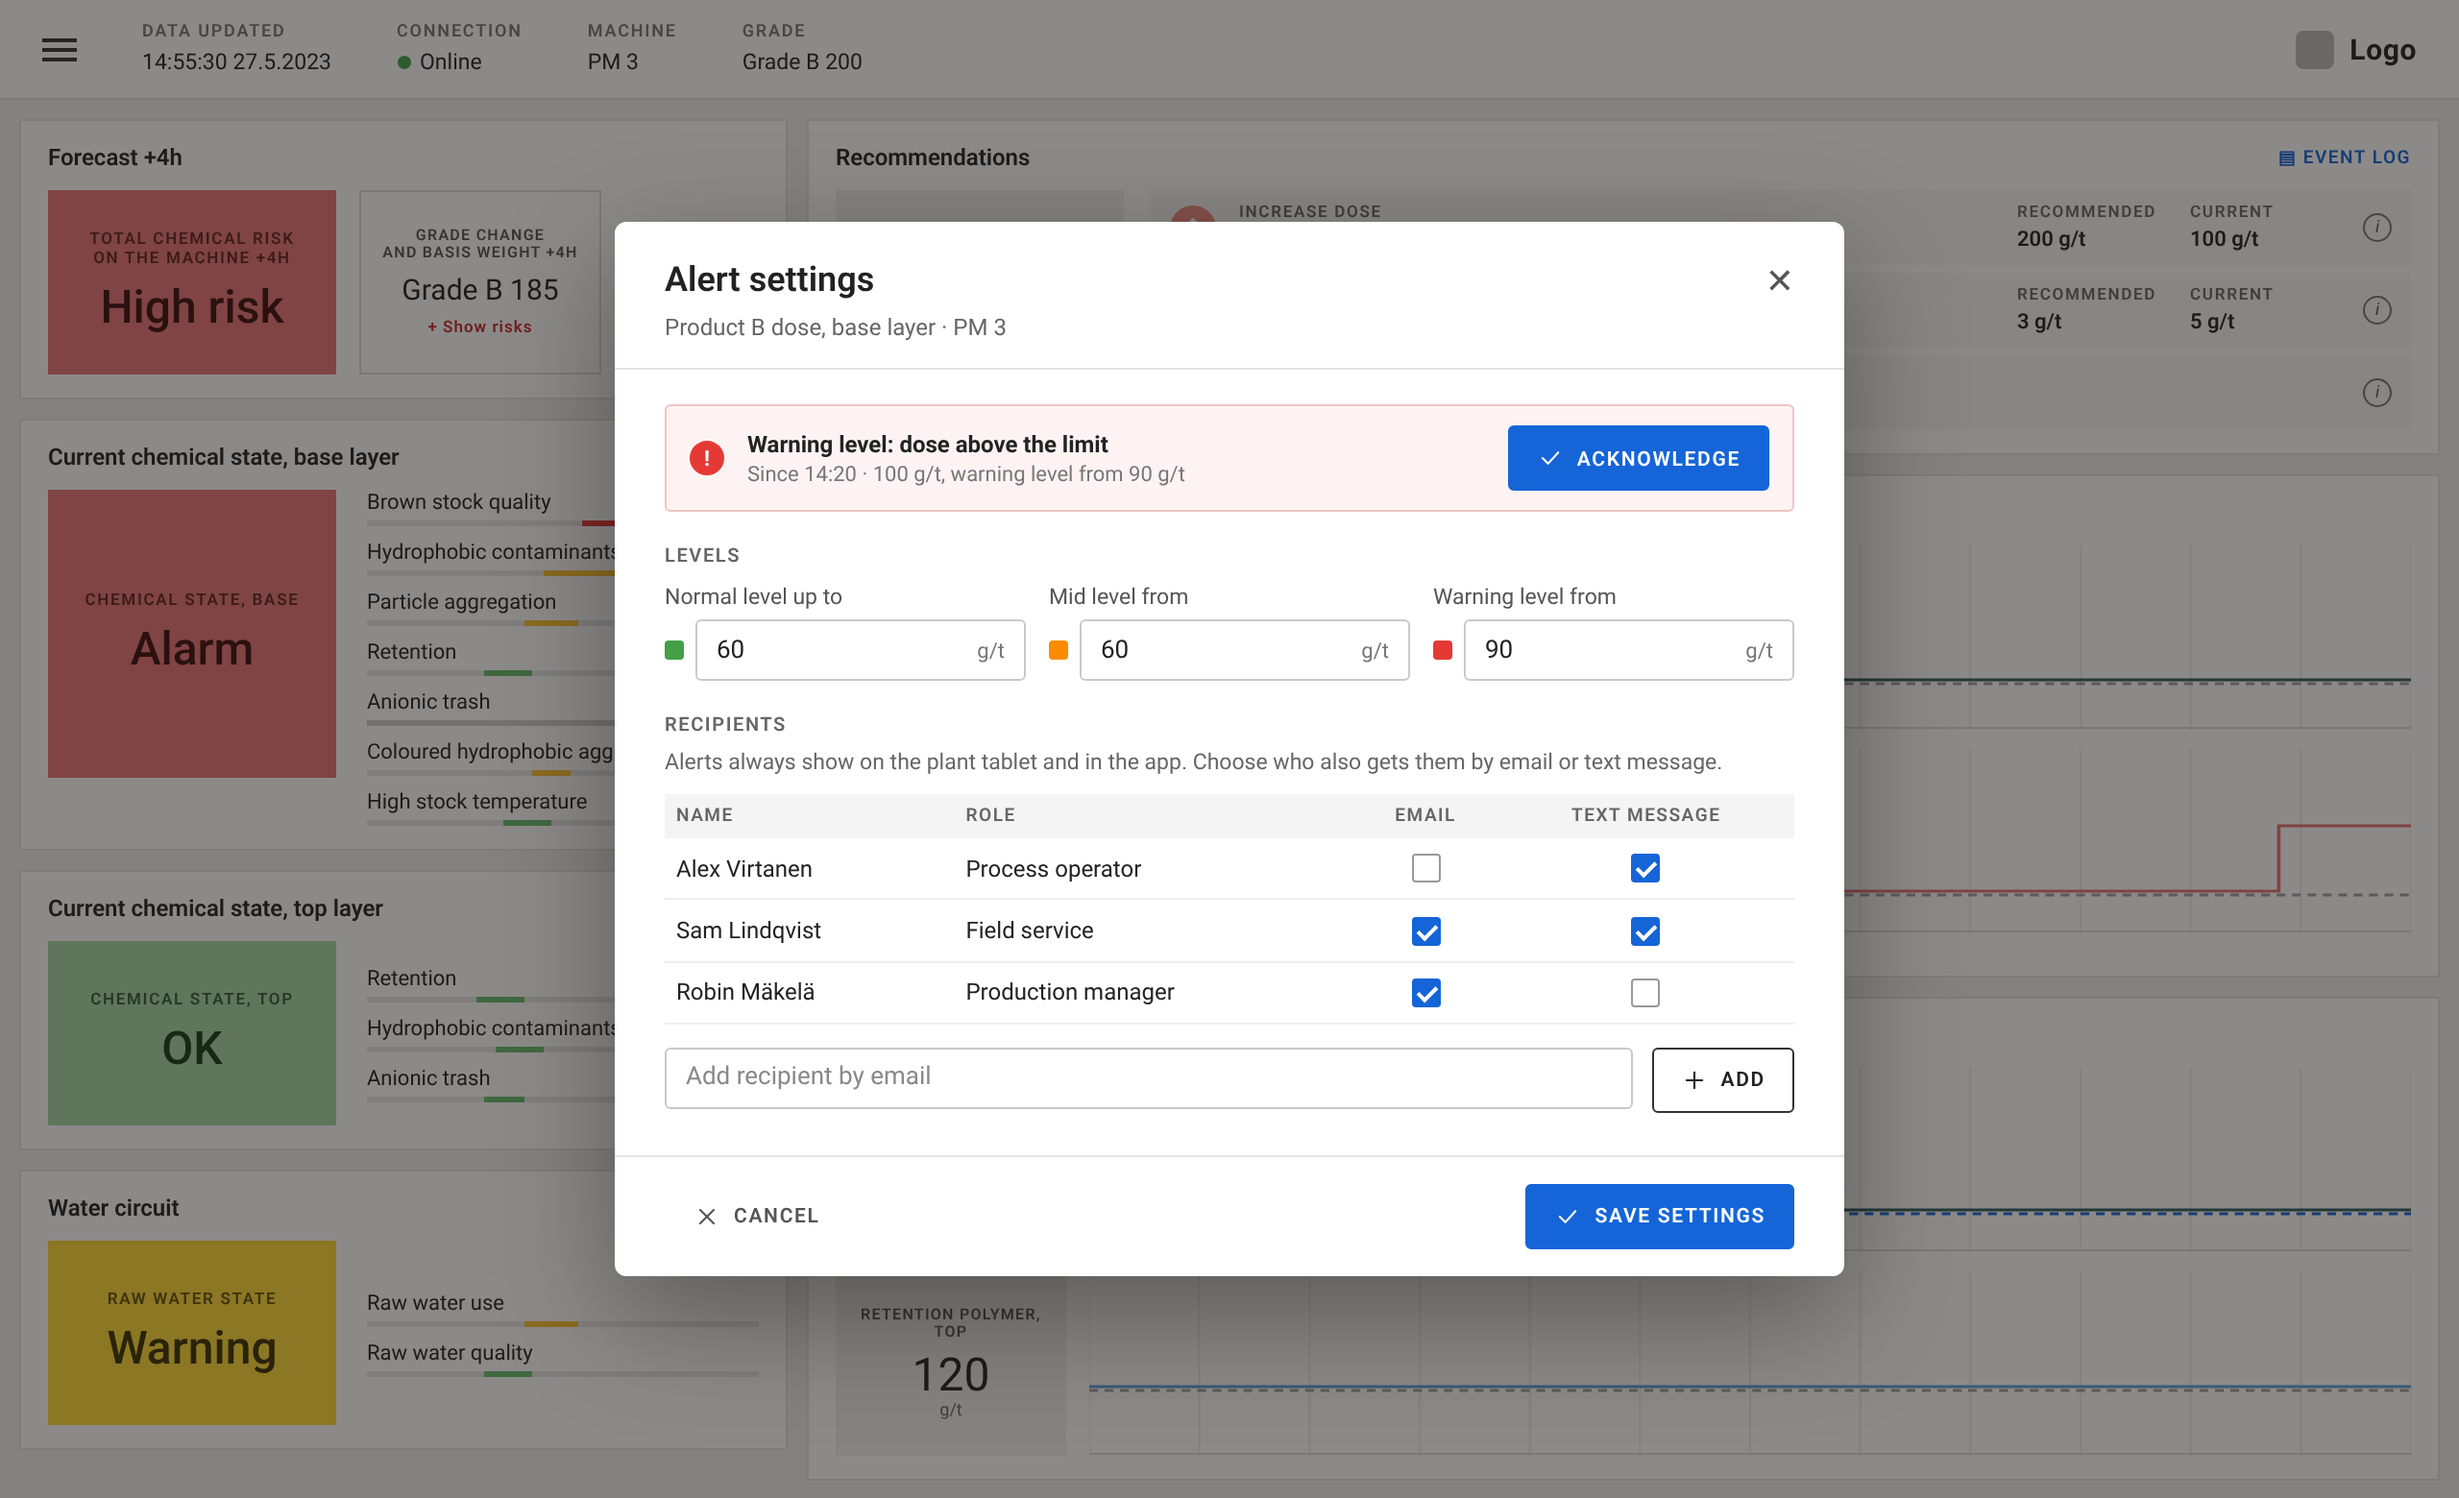
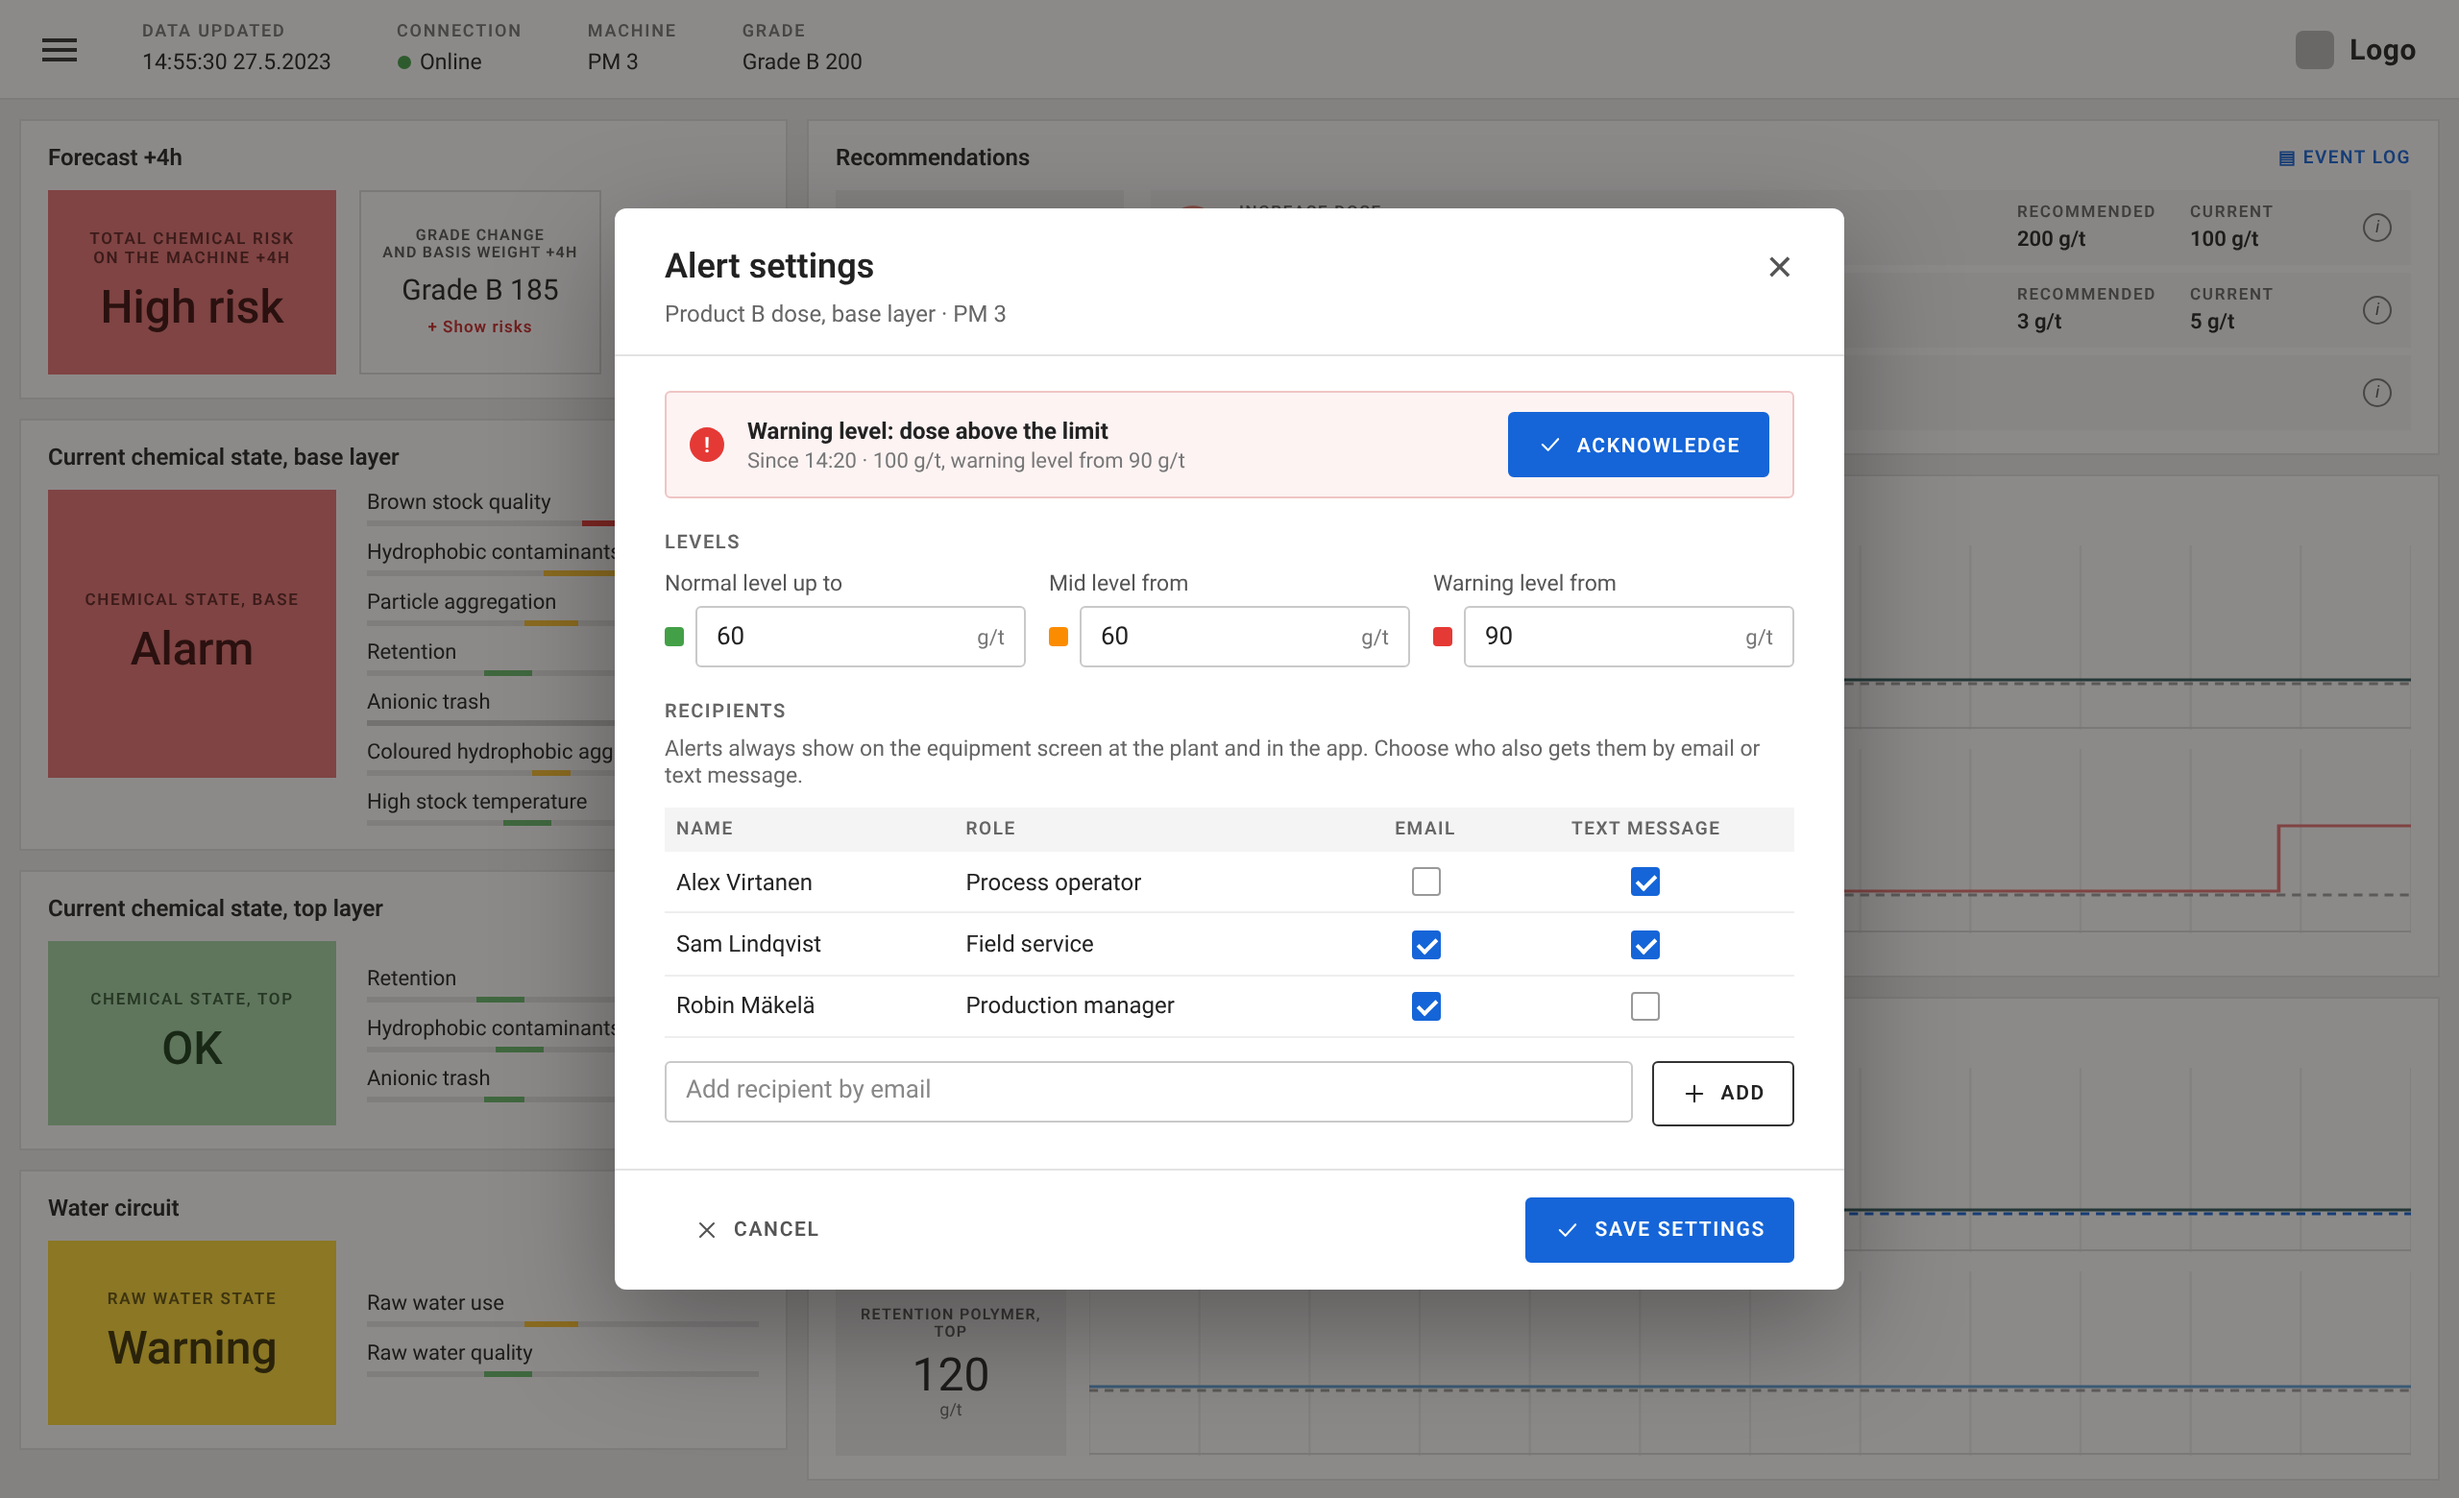
Industrial case: alert system ran on screens mounted on the dosing equipment
Claude-Session: https://claude.ai/code/session_015M7xwsL7YAwHherkf6d5xQ

diff --git a/portfolio-homepage/src/data/case-studies/fi/industrial-tool.ts b/portfolio-homepage/src/data/case-studies/fi/industrial-tool.ts
@@ -263,9 +263,9 @@ export const industrialToolFi: CaseStudy = {
         {
           title: "Hälytysjärjestelmä sivuprojektina",
           paragraphs: [
-            "Erillisellä budjetilla suunnittelin hälytysjärjestelmän. Se oli oma web-sovelluksensa eikä osa pääalustaa, ja sitä käytettiin myös tehtaiden tableteilla. Järjestelmä seuraa prosessin kemiallista tilaa ja varoittaa, kun säiliö on täyttymässä tai jokin muu menee vikaan.",
+            "Erillisellä budjetilla suunnittelin hälytysjärjestelmän. Se oli oma web-sovelluksensa eikä osa pääalustaa, ja sitä käytettiin myös tehtailla annostelulaitteisiin kiinnitetyillä näytöillä. Järjestelmä seuraa prosessin kemiallista tilaa ja varoittaa, kun säiliö on täyttymässä tai jokin muu menee vikaan.",
             "Tilanäkymässä näkyvät neljän tunnin riskiennuste, suositellut toimenpiteet ja prosessin eri osien tila. Jokaisella tilalla on värin lisäksi tekstimerkintä, joten tieto ei ole pelkän värin varassa.",
-            "Käyttäjä asettaa datalle kolme tasoa: normaali (vihreä), keskitaso (oranssi) ja varoitustaso (punainen). Hälytykset näkyvät aina tehtaan tabletilla ja sovelluksessa. Lisäksi käyttäjä valitsee, kuka saa ne myös sähköpostiin tai tekstiviestinä, ja lisää uudet vastaanottajat sähköpostiosoitteella. Näin hälytys tavoittaa sekä tehtaan prosessinhoitajan että kenttähuollon, ja sen voi kuitata samassa näkymässä.",
+            "Käyttäjä asettaa datalle kolme tasoa: normaali (vihreä), keskitaso (oranssi) ja varoitustaso (punainen). Hälytykset näkyvät aina laitteen näytöllä tehtaalla ja sovelluksessa. Lisäksi käyttäjä valitsee, kuka saa ne myös sähköpostiin tai tekstiviestinä, ja lisää uudet vastaanottajat sähköpostiosoitteella. Näin hälytys tavoittaa sekä tehtaan prosessinhoitajan että kenttähuollon, ja sen voi kuitata samassa näkymässä.",
             "Alkuperäisestä ei ole jäljellä kuvakaappauksia, joten kuvat ovat rekonstruktio yhden säilyneen kuvan pohjalta. Tuotenimet on poistettu.",
           ],
           figures: [alertShots[0], alertShots[1]],

diff --git a/portfolio-homepage/src/data/case-studies/industrial-tool.ts b/portfolio-homepage/src/data/case-studies/industrial-tool.ts
@@ -311,9 +311,9 @@ export const industrialTool: CaseStudy = {
         {
           title: "An alert system as a side project",
           paragraphs: [
-            "With a separate budget, I designed an alert system. It was its own web app, not part of the main platform, and it was also used on tablets at the plants. It tracks the chemical state of the process and warns when a tank is filling up or something else goes wrong.",
+            "With a separate budget, I designed an alert system. It was its own web app, not part of the main platform, and it was also used on screens mounted on the dosing equipment at the plants. It tracks the chemical state of the process and warns when a tank is filling up or something else goes wrong.",
             "The status view shows the risk forecast for the next four hours, recommended actions and the state of each part of the process. Every state has a text label as well as a colour, so it doesn't rely on colour alone.",
-            "Users set three levels for the data: normal (green), mid level (orange) and warning level (red). Alerts always show on the plant's tablet and in the app. Users also choose who gets them by email or text message, and add new recipients by email address. That way an alert reaches both the process operator at the plant and field service, and it can be acknowledged in the same view.",
+            "Users set three levels for the data: normal (green), mid level (orange) and warning level (red). Alerts always show on the equipment's screen at the plant and in the app. Users also choose who gets them by email or text message, and add new recipients by email address. That way an alert reaches both the process operator at the plant and field service, and it can be acknowledged in the same view.",
             "No screenshots of the original survive, so the images are a reconstruction based on one surviving image. Product names have been removed.",
           ],
           figures: [alertShots[0], alertShots[1]],
